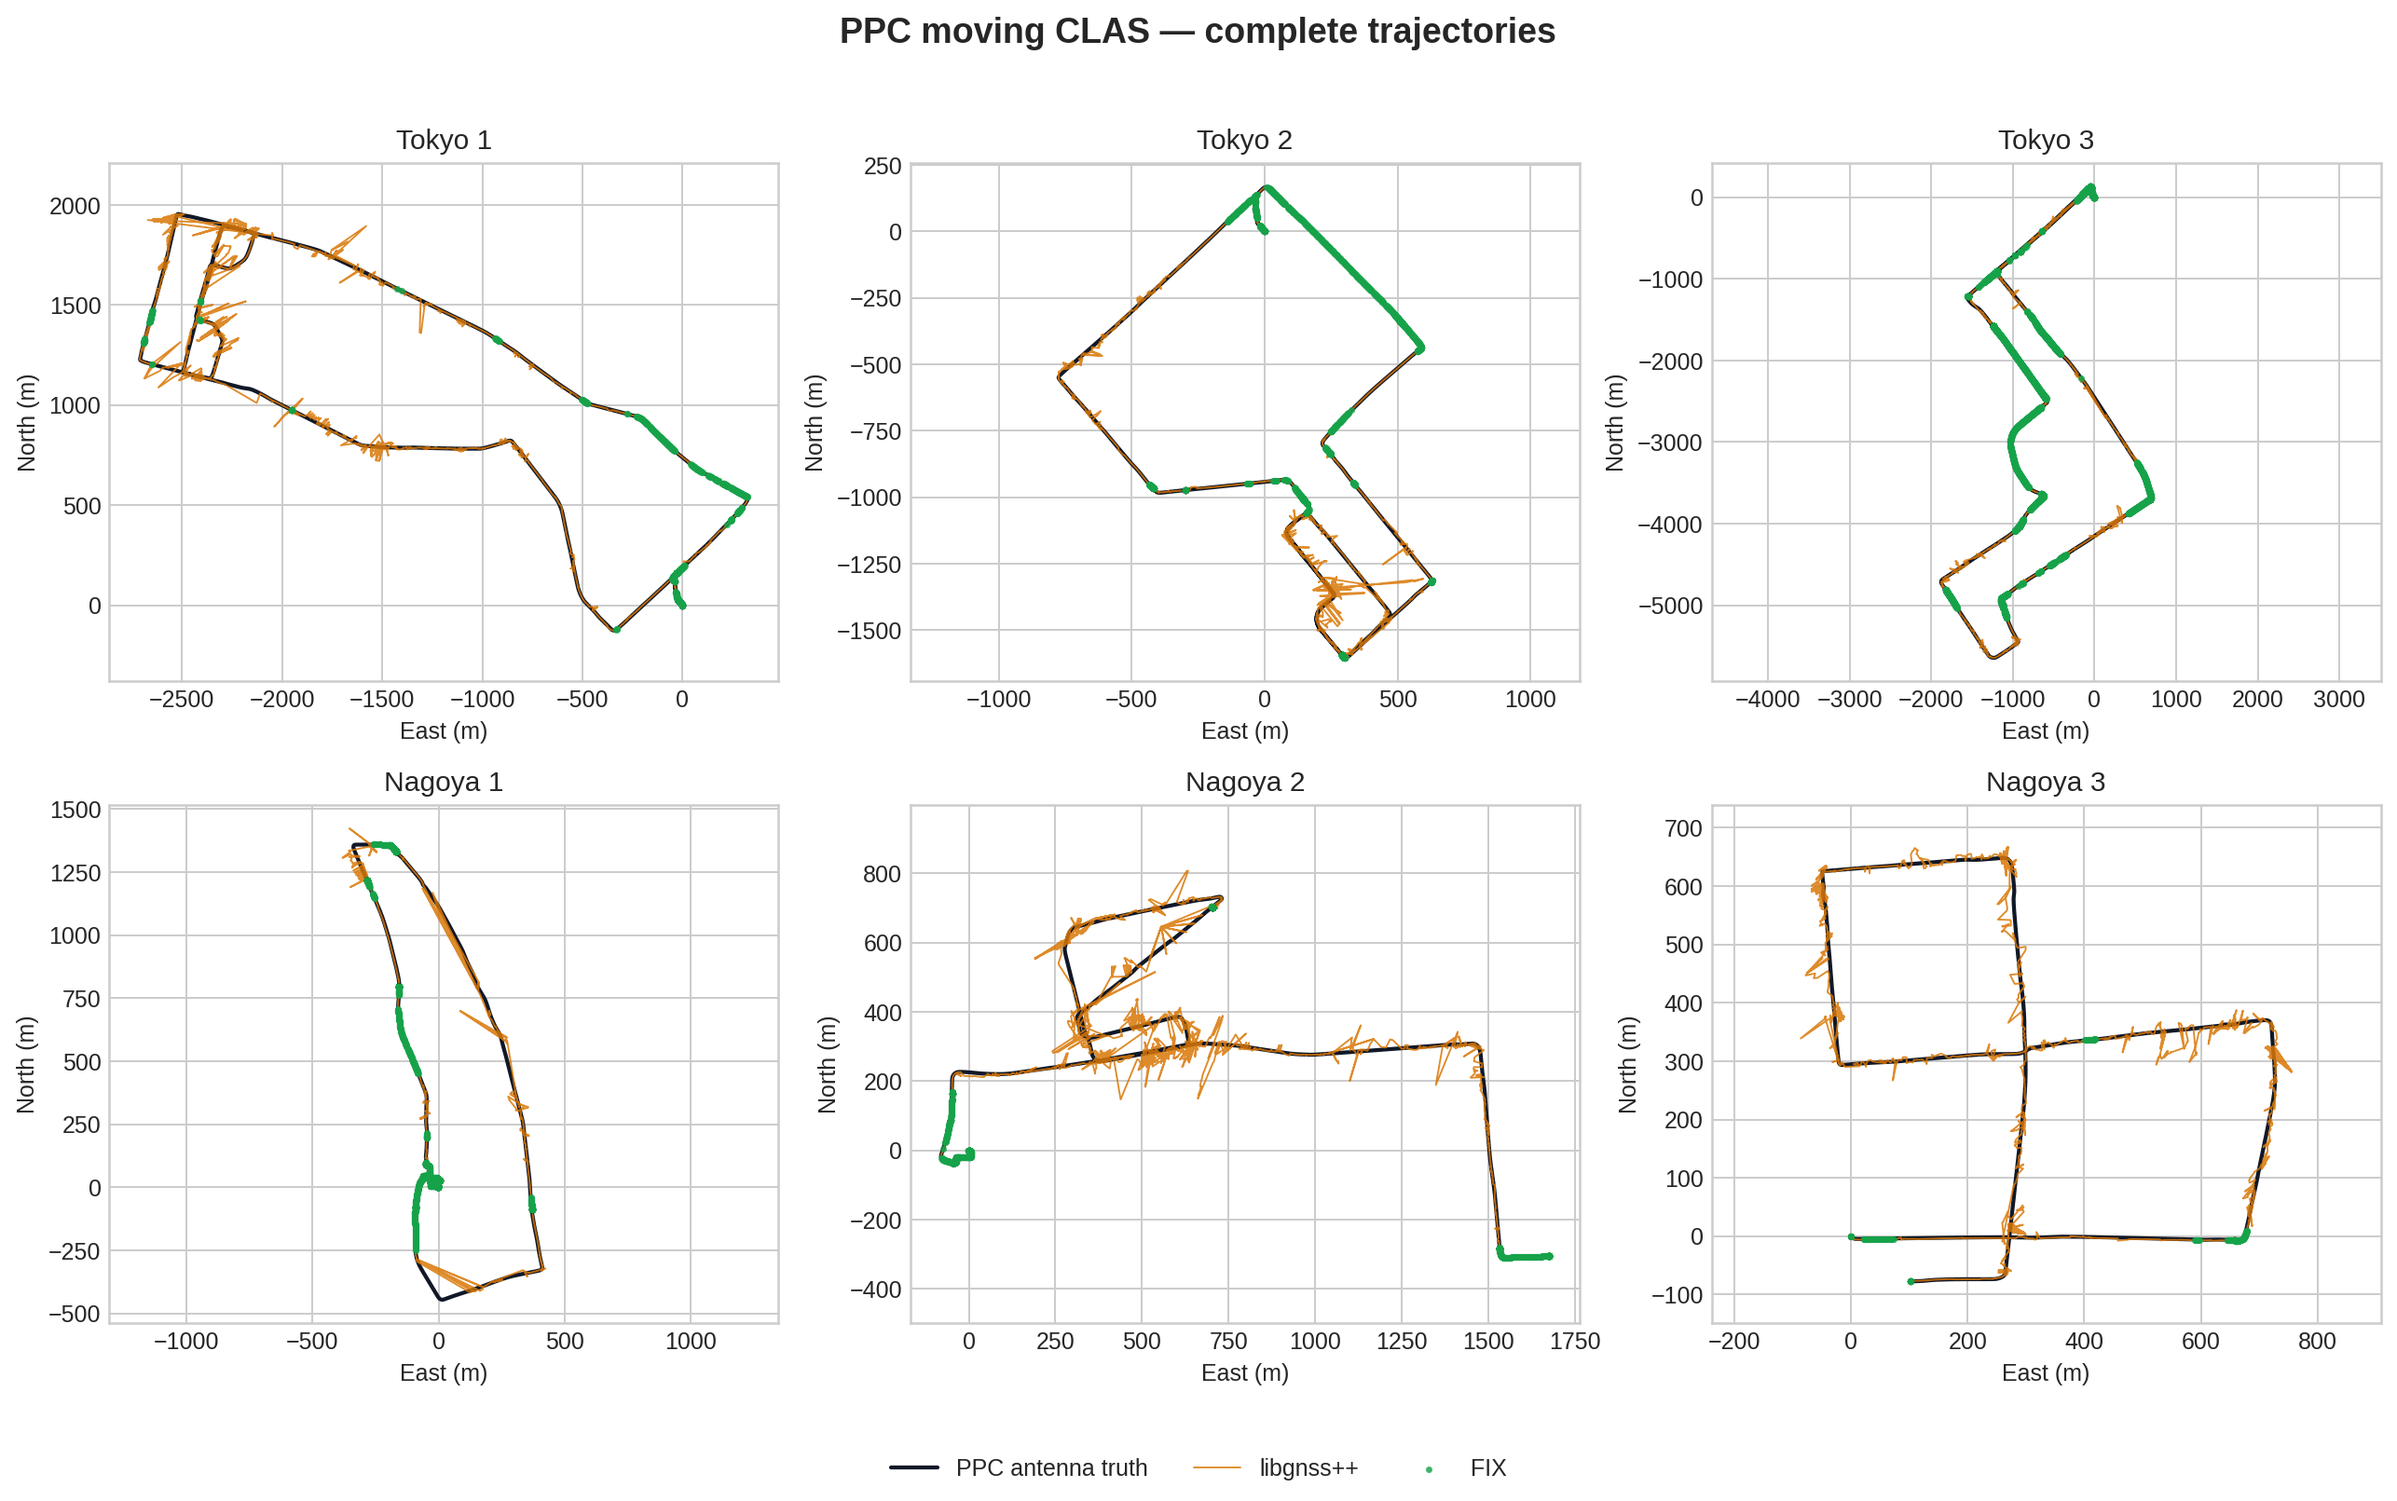
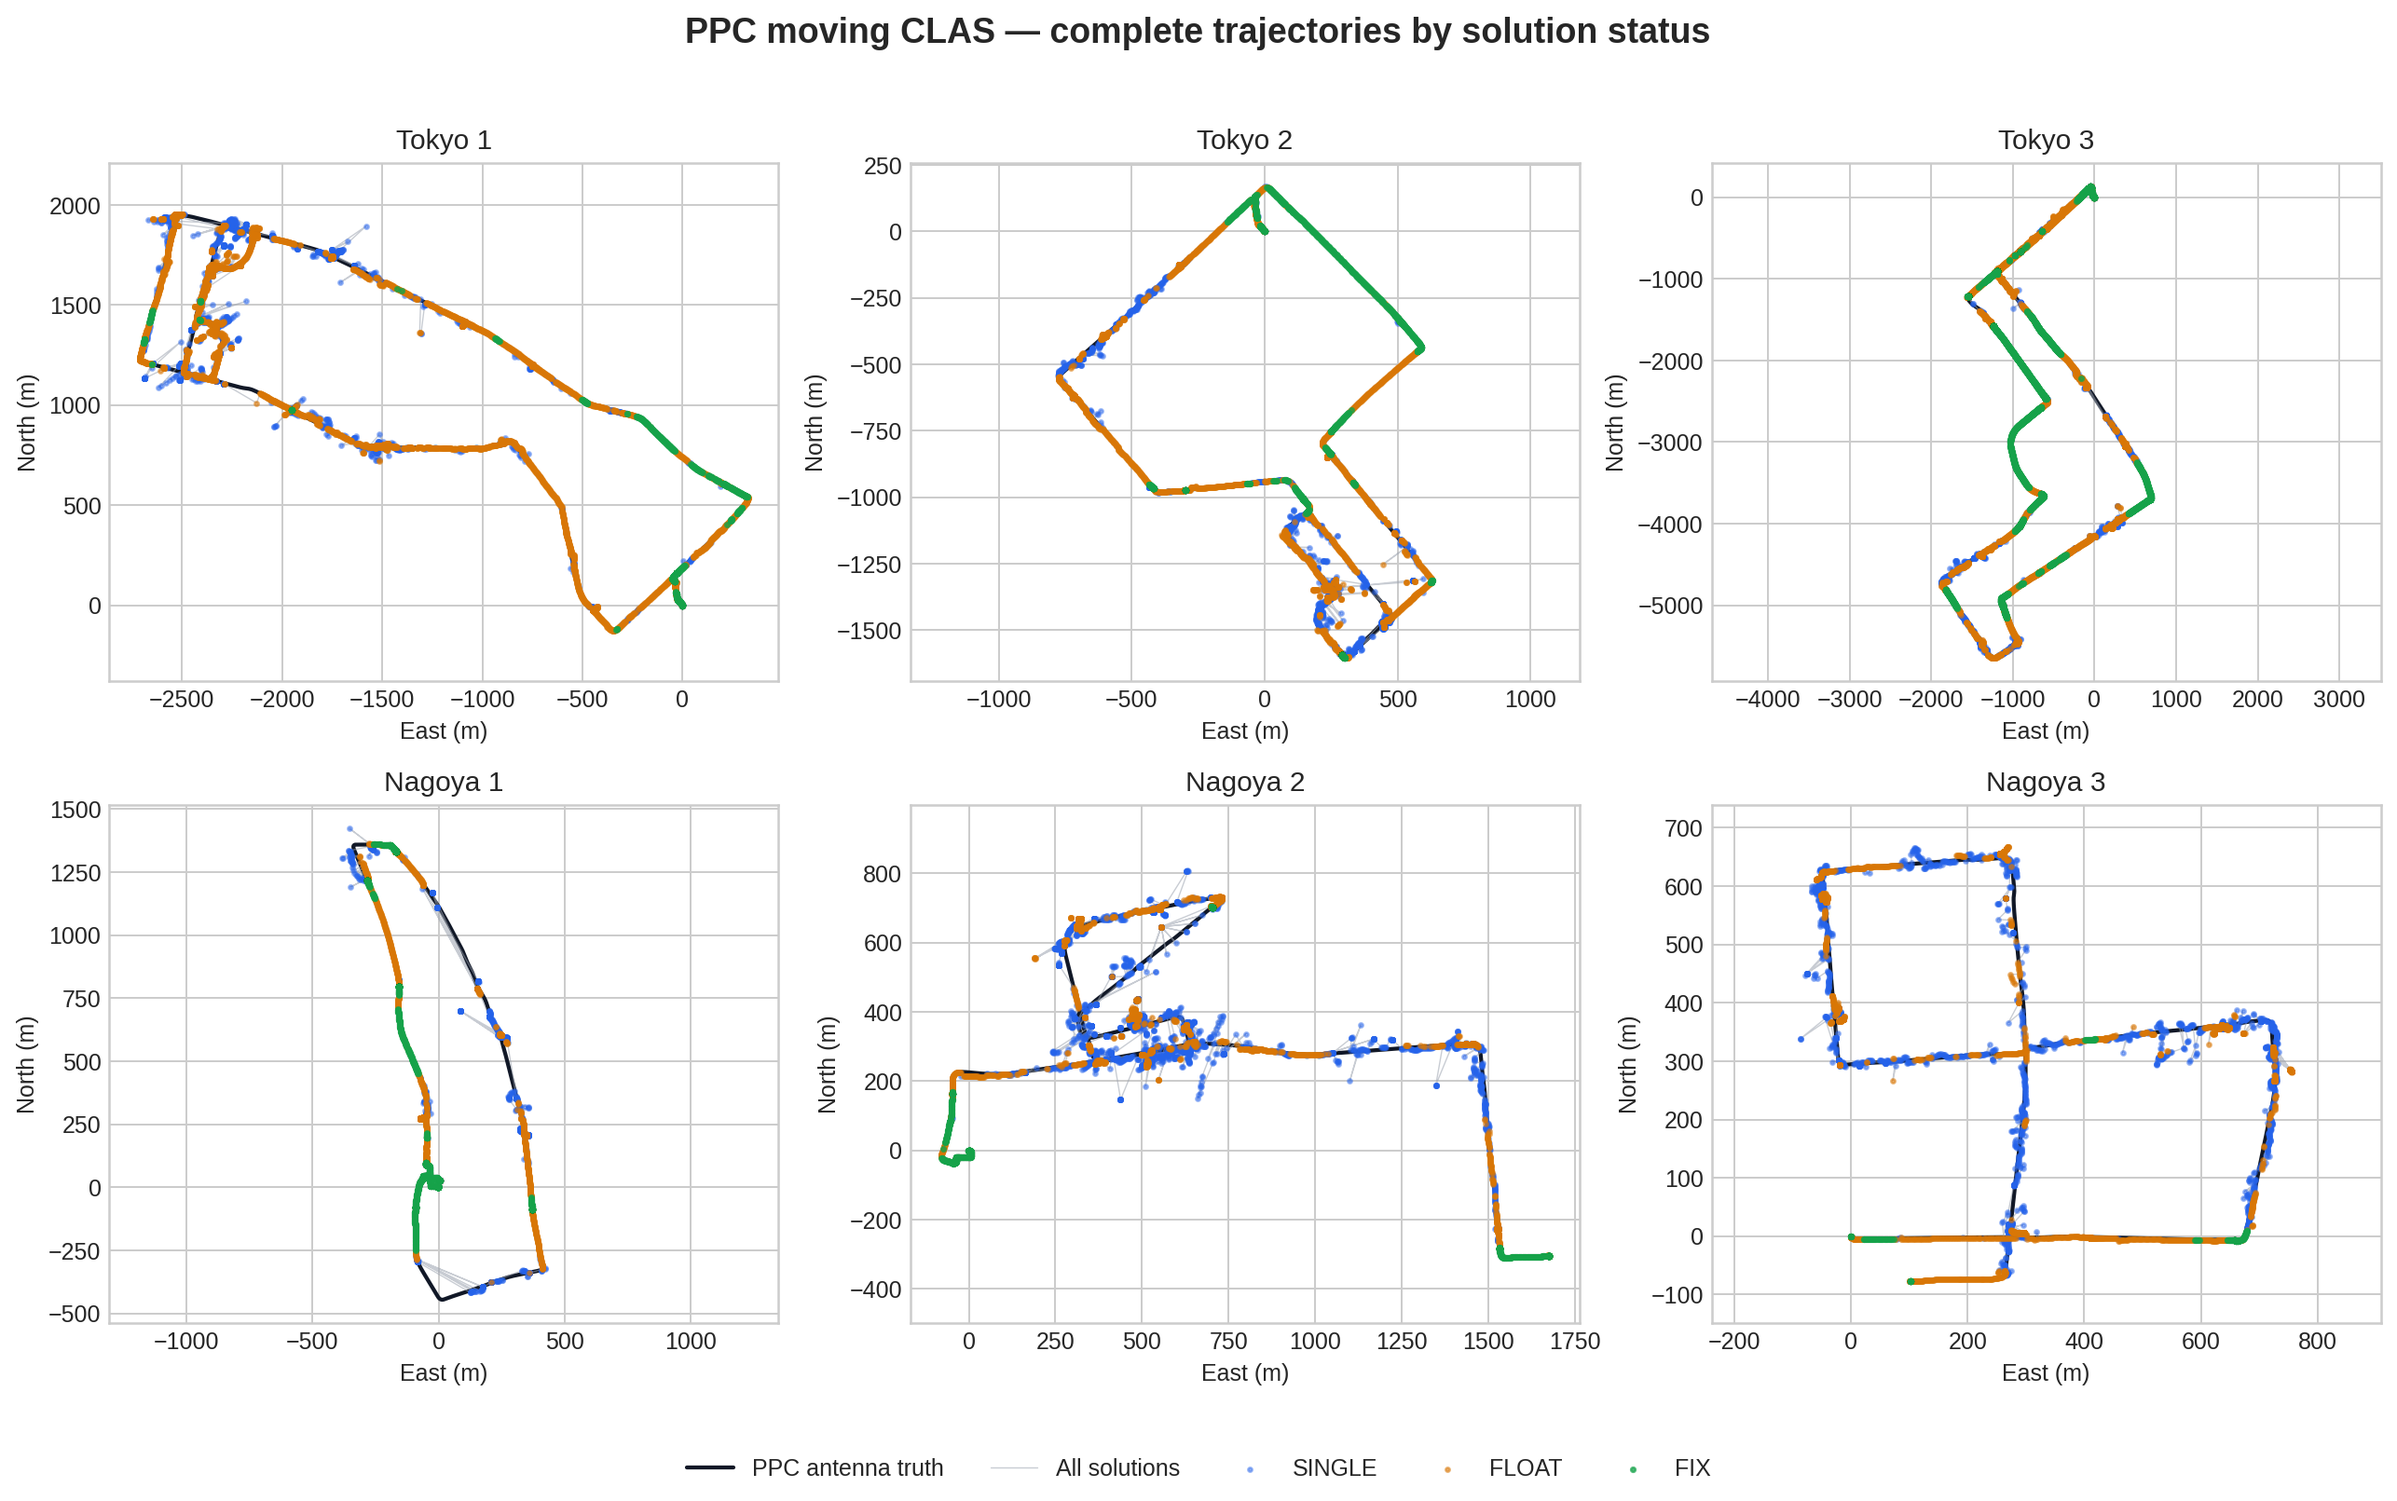
Show non-FIX CLAS trajectories

diff --git a/scripts/generate_ppc_clas_full_comparison.py b/scripts/generate_ppc_clas_full_comparison.py
@@ -182,6 +182,12 @@ def write_trajectory_figure(runs: list[dict[str, Any]], output: Path) -> None:
         fixed = np.asarray(
             [epoch.status == scorecard.PPP_FIXED_STATUS for epoch in matched]
         )
+        floating = np.asarray(
+            [epoch.status == PPP_FLOAT_STATUS for epoch in matched]
+        )
+        single = np.asarray(
+            [epoch.status == PPP_SINGLE_STATUS for epoch in matched]
+        )
         ax.plot(
             truth[:, 0],
             truth[:, 1],
@@ -189,8 +195,12 @@ def write_trajectory_figure(runs: list[dict[str, Any]], output: Path) -> None:
             linewidth=1.7,
             label="PPC antenna truth",
         )
-        ax.plot(solution_xy[:, 0], solution_xy[:, 1], color="#d97706", linewidth=0.75,
-                alpha=0.85, label="libgnss++")
+        ax.plot(solution_xy[:, 0], solution_xy[:, 1], color="#9ca3af",
+                linewidth=0.55, alpha=0.55, label="All solutions")
+        ax.scatter(solution_xy[single, 0], solution_xy[single, 1], s=3.0,
+                   color="#2563eb", alpha=0.45, label="SINGLE", zorder=2)
+        ax.scatter(solution_xy[floating, 0], solution_xy[floating, 1], s=3.0,
+                   color="#d97706", alpha=0.55, label="FLOAT", zorder=2)
         ax.scatter(solution_xy[fixed, 0], solution_xy[fixed, 1], s=3.5,
                    color="#16a34a", alpha=0.7, label="FIX", zorder=3)
         ax.set_aspect("equal", adjustable="datalim")
@@ -198,8 +208,12 @@ def write_trajectory_figure(runs: list[dict[str, Any]], output: Path) -> None:
         ax.set_xlabel("East (m)")
         ax.set_ylabel("North (m)")
     handles, labels = axes.flat[0].get_legend_handles_labels()
-    figure.legend(handles, labels, loc="lower center", ncol=3)
-    figure.suptitle("PPC moving CLAS — complete trajectories", fontsize=15, fontweight="bold")
+    figure.legend(handles, labels, loc="lower center", ncol=5)
+    figure.suptitle(
+        "PPC moving CLAS — complete trajectories by solution status",
+        fontsize=15,
+        fontweight="bold",
+    )
     figure.tight_layout(rect=(0, 0.055, 1, 0.96))
     output.parent.mkdir(parents=True, exist_ok=True)
     figure.savefig(output, dpi=180, bbox_inches="tight")
